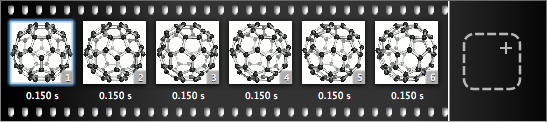
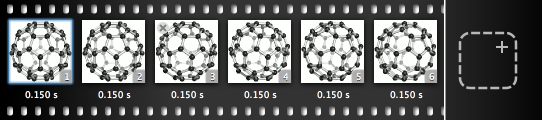
Retina-optimized Discover Pixen tutorial (5)

diff --git a/Resources/PixenIntro/animations.html b/Resources/PixenIntro/animations.html
@@ -7,7 +7,7 @@
 
 <body>
 	<h2>Animations</h2>
-	<img class="center shadow" src="Animation.png" alt="Animations in Pixen" />
+	<img id="animation" class="center shadow" src="Animation.png" width="542" height="120" alt="Animations in Pixen" />
 	<p>Pixen also makes creating animations easy. Simply select <strong>New Animation</strong> from the <strong>File</strong> menu to get started. The document window is split into two sections: a filmstrip and the typical image editor. You can edit the image per usual using all of Pixen's features.</p>
 	<p>The filmstrip contains your animation's frames. Reorder and delete frames at will, or even drag cels between filmstrips. To change the duration of a frame, double-click the timestamp beneath it.</p>
 	<p>To play back your animation, simply open the <strong>Preview</strong> window.</p>

diff --git a/Resources/PixenIntro/style.css b/Resources/PixenIntro/style.css
@@ -72,6 +72,9 @@ a.button:hover {
 	img#layers {
 		content: url("Layers_2x.png");
 	}
+	img#animation {
+		content: url("Animation_2x.png");
+	}
 	img#crosshair {
 		content: url("Crosshair_2x.png");
 	}
